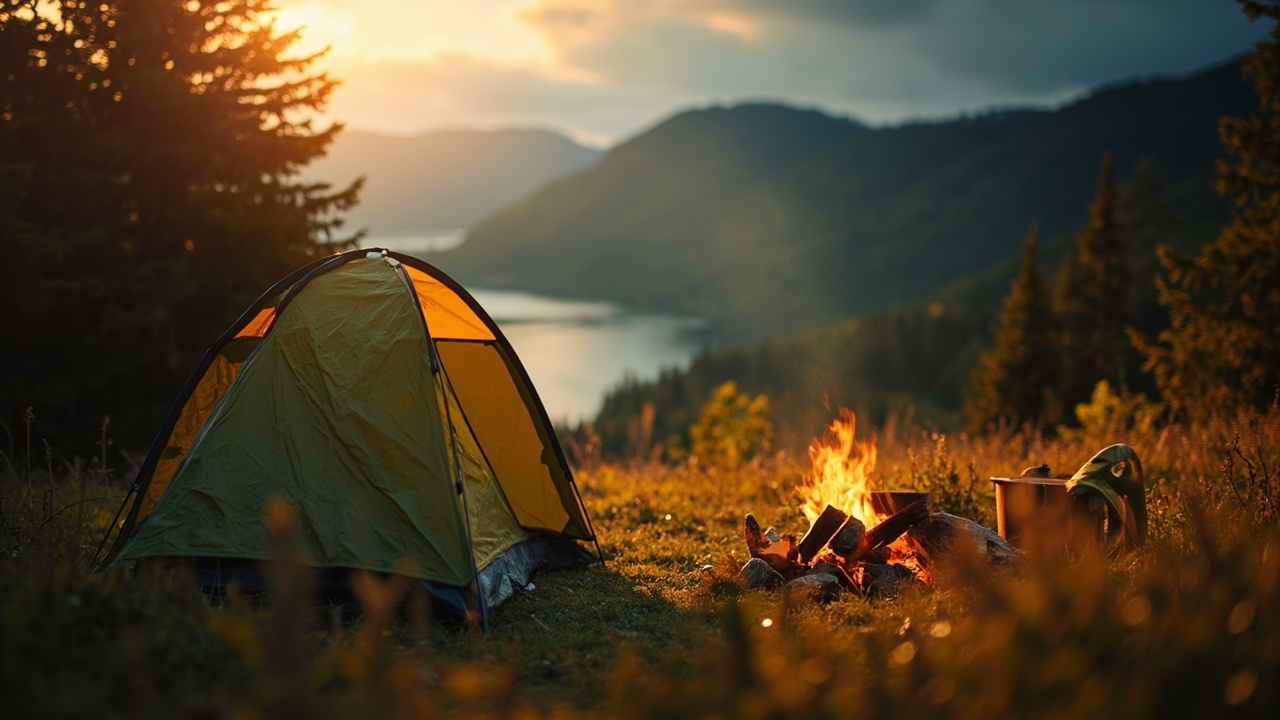
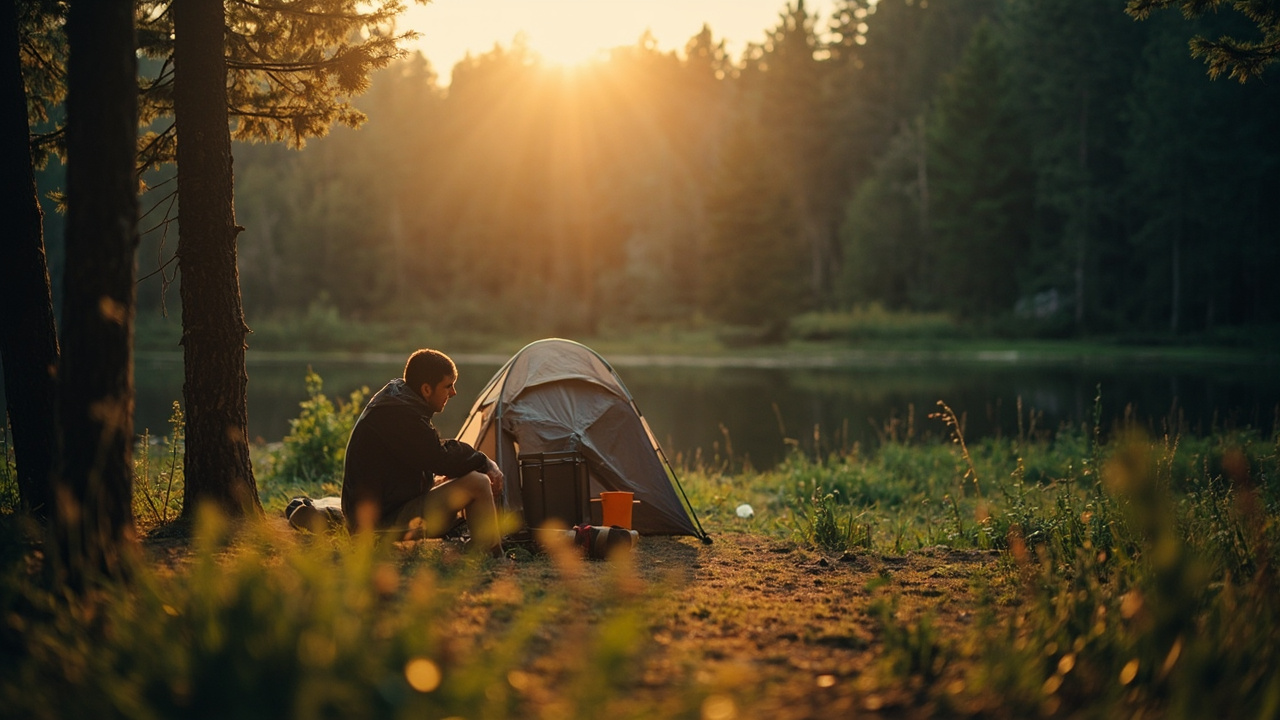
Publish how-to-camp-in-rain
Generated from specs/how-to-camp-in-rain.json. All affiliate ASINs verified live
against the cache before publishing; build passed.

diff --git a/src/data/articles.ts b/src/data/articles.ts
@@ -1568,6 +1568,95 @@ For campers prioritizing waterproof protection and ankle support under $100, the
 *For more camping gear recommendations, see our guide to [backpacking sleeping bags](/blog/best-backpacking-sleeping-bags) or learn how to [choose the right tent for your adventures](/blog/how-to-choose-a-camping-tent).*
     `
   },
+
+  {
+    id: "art-027",
+    slug: "how-to-camp-in-rain",
+    title: "How to Camp in Rain and Still Have a Great Time",
+    excerpt: "How to Camp in Rain and Still Have a Great Time.",
+    category: "Tips",
+    date: "2026-08-05",
+    author: "Camp Rally Team",
+    readTime: "5 min read",
+    content: `
+# How to Camp in Rain and Still Have a Great Time
+
+Fall camping offers stunning foliage, fewer crowds, and that crisp, satisfying chill in the air. The tradeoff is that September through November brings unpredictable weather, and rain can arrive without warning. Rather than packing up and heading home at the first drops, a few key pieces of rain-specific gear let you hunker down comfortably and even enjoy the cozy sound of a downpour outside your shelter.
+
+This guide covers what to look for in rain camping gear and highlights six budget-friendly picks that handle moisture without breaking the bank.
+
+## Why Rain Gear Matters for Fall Camping
+
+Fall rain is different from a summer shower. Temperatures drop alongside the barometer, and staying damp in cool weather quickly leads to hypothermia. Wet gear also ruins the experience—you cannot start a fire easily, fabric becomes heavy, and morale sinks fast. The right rain setup keeps you dry, maintains warmth, and protects your investment in other camping equipment.
+
+Beyond personal comfort, rain gear extends the lifespan of your tent, sleeping bag, and clothing. Tarps shield your campsite from wind and water, while quick-dry towels and weatherproof accessories prevent minor inconveniences from turning into trip-ending problems.
+
+## How to Choose Rain Camping Gear
+
+When evaluating rain gear for camping, consider these factors:
+
+**Waterproof vs. Water-Resistant**  
+Water-resistant fabrics handle light drizzle but will soak through in sustained rain. Look for fully waterproof materials with sealed seams and reinforced coatings for reliable performance in fall conditions.
+
+**Weight and Packability**  
+Every piece of gear you carry counts toward your total pack weight. Choose items that compress small and weigh little so they do not become burdensome extras on the trail.
+
+**Durability**  
+Camping gear faces rough handling—sharp sticks, rocky ground, and repeated setup and takedown. Pick items with reinforced edges, strong attachment points, and ripstop materials that resist tearing.
+
+**Multi-Use Potential**  
+The best rain gear works beyond emergencies. A tarp that doubles as a sun shade or a poncho that converts into an emergency blanket earns its place in your pack.
+
+**Ease of Setup**  
+When rain is already falling, you do not want complicated gear. Look for intuitive designs with clear attachment points and minimal components to wrangle.
+
+## Our Top Rain Camping Picks
+
+### Emergency Mylar Thermal Blankets
+
+**[Check the Emergency Blanket Mylar Thermal Space Survival Gear on Amazon](https://www.amazon.com/dp/B098KJMMGC?tag=camprally-20)**
+
+These compact reflective blankets trap body heat and block wind and rain. A pack of four gives you extras to layer under a sleeping pad, line a pack, or share with a camping partner. They weigh almost nothing and fold down to pocket size, making them the lightest insurance policy you can carry. While not a substitute for a proper shelter, they add crucial warmth when temperatures drop unexpectedly.
+
+### FREE SOLDIER Waterproof Camping Tarp
+
+**[Check the FREE SOLDIER Waterproof Camping Tarp Shelter Awning on Amazon](https://www.amazon.com/dp/B01HO15DGS?tag=camprally-20)**
+
+A dedicated tarp transforms your campsite during rain. The FREE SOLDIER model features waterproof coating and multiple attachment points for flexible setup over your tent entrance, cooking area, or seating space. The shelter awning design includes guy lines and stakes so you can pitch it quickly when clouds roll in. Breathable fabric reduces condensation buildup underneath, keeping the space comfortable for lounging or cooking.
+
+### Rite in the Rain All-Weather Pens
+
+**[Check the Rite in the Rain Weatherproof Olive Drab and Flat Dark Earth Mini Bolt-Action Pens on Amazon](https://www.amazon.com/dp/B0CZF8JDG4?tag=camprally-20)**
+
+Staying organized matters when rain sets in. Standard pens stop working on wet paper, but these weatherproof pens write reliably through moisture. The bolt-action mechanism prevents accidental marks in your pack, and the compact size fits easily in a pocket or pack organizer. Two-pack ensures you have a spare if one goes missing. Keep your field journal, trip notes, or emergency contacts legible no matter the conditions.
+
+### Rainleaf Quick-Dry Microfiber Towel
+
+**[Check the Rainleaf Microfiber Towel Quick Dry Camping & Travel & Gym Towel on Amazon](https://www.amazon.com/dp/B01K1TX3DK?tag=camprally-20)**
+
+Drying off with a regular cotton towel in damp camping conditions means carrying something heavy that stays damp itself. This microfiber option absorbs effectively, dries quickly, and compresses small enough to fit in a side pocket. Available in compact sizes, it handles everything from drying your hands after rain gear adjustments to wiping down wet equipment. The included mesh carry pouch helps air circulation during the drying process.
+
+### Amazon Basics Waterproof Multipurpose Tarp
+
+**[Check the Amazon Basics Waterproof Multipurpose Camping Tarp with Reinforced Corners and Edges on Amazon](https://www.amazon.com/dp/B0748HGDVD?tag=camprally-20)**
+
+For larger coverage or a groundsheet under your tent, the Amazon Basics tarp delivers reliable performance at a budget-friendly price. Reinforced corners and edges resist wear from repeated use and rough terrain. The 9.5 by 11.3 foot size accommodates most three-season tents with extra room for gear storage. Dark green coloring blends into forest environments better than bright alternatives. Use it as a tent footprint to protect your tent floor, or rig it overhead as additional rain protection.
+
+### PREPARED4X Emergency Mylar Poncho
+
+**[Check the PREPARED4X Emergency Mylar Poncho – Survival Rain Poncho with Hood on Amazon](https://www.amazon.com/dp/B0BKH8BJ3Q?tag=camprally-20)**
+
+When you need hands-free rain protection without the bulk of a rain jacket, a poncho solves the problem. This option combines emergency blanket material with a hooded poncho design, giving you waterproof coverage that doubles as a heat-retaining layer if temperatures plummet. Lightweight and packable, it stows in its own pocket until needed. Reusable construction means you can pack it trip after trip without worrying about wear between uses. The hood adjusts to keep rain off your face during those long walks to the bathhouse in a downpour.
+
+## Final Verdict
+
+Rain does not have to end your fall camping trip. The six picks above cover the essentials for staying dry and comfortable when wet weather arrives. For a lightweight emergency backup, grab the mylar blankets. For true shelter coverage, the FREE SOLDIER or Amazon Basics tarps provide dependable overhead and ground protection. The quick-dry towel and all-weather pens handle the small irritations that add up in prolonged rain, while the emergency poncho offers versatile protection you can deploy instantly.
+
+Start with the tarp that matches your typical setup size, add the emergency poncho as your always-carry rain layer, and build from there. With this foundation, that October drizzle becomes just background music to your campfire stories.
+
+*Explore more camping tips in our guide to [camping essentials for beginners](/blog/camping-essentials-beginners) or learn how to [set up camp in cold weather](/blog/cold-weather-camping-tips).*
+    `
+  },
 ];
 
 export function getArticleBySlug(slug: string): Article | undefined {

diff --git a/src/data/article-sections.ts b/src/data/article-sections.ts
@@ -22,6 +22,20 @@ export interface CustomSection {
 }
 
 export const ARTICLE_CUSTOM_SECTIONS: Record<string, CustomSection[]> = {
+  "how-to-camp-in-rain": [
+    {
+      type: "product-grid",
+      title: "How to Camp in Rain and Still Have a Great Time — Quick Comparison",
+      items: [
+        { label: "Emergency Blanket Mylar Thermal Sp", category: "", icon: "🏕", asin: "B098KJMMGC", link: "https://www.amazon.com/dp/B098KJMMGC?tag=camprally-20" },
+        { label: "FREE SOLDIER Waterproof Camping Ta", category: "", icon: "🏕", asin: "B01HO15DGS", link: "https://www.amazon.com/dp/B01HO15DGS?tag=camprally-20" },
+        { label: "Rite in the Rain Weatherproof Oliv", category: "", icon: "🏕", asin: "B0CZF8JDG4", link: "https://www.amazon.com/dp/B0CZF8JDG4?tag=camprally-20" },
+        { label: "Rainleaf Microfiber Towel Quick Dr", category: "", icon: "🏕", asin: "B01K1TX3DK", link: "https://www.amazon.com/dp/B01K1TX3DK?tag=camprally-20" },
+        { label: "Amazon Basics Waterproof Multipurp", category: "", icon: "🏕", asin: "B0748HGDVD", link: "https://www.amazon.com/dp/B0748HGDVD?tag=camprally-20" },
+        { label: "PREPARED4X Emergency Mylar Poncho ", category: "", icon: "🏕", asin: "B0BKH8BJ3Q", link: "https://www.amazon.com/dp/B0BKH8BJ3Q?tag=camprally-20" },
+      ]
+    },
+  ],
   "best-hiking-boots-camping-under-100": [
     {
       type: "product-grid",

diff --git a/src/data/heroes.ts b/src/data/heroes.ts
@@ -69,8 +69,8 @@ export const HERO_IMAGES: Record<string, string> = {
   /* Generated by write-article.mjs via MiniMax image-01 and committed to the
    * repo — the only locally hosted hero so far. New articles get one of these
    * automatically; the Unsplash URLs above are the pre-generator backlog. */
-  "how-to-camp-in-rain":            "/images/heroes/how-to-camp-in-rain.jpg",
 
+  "how-to-camp-in-rain": "/images/heroes/how-to-camp-in-rain.jpg",
   default: "https://images.unsplash.com/photo-1598507690808-57594afea85f?w=1200&q=80",
 };
 
